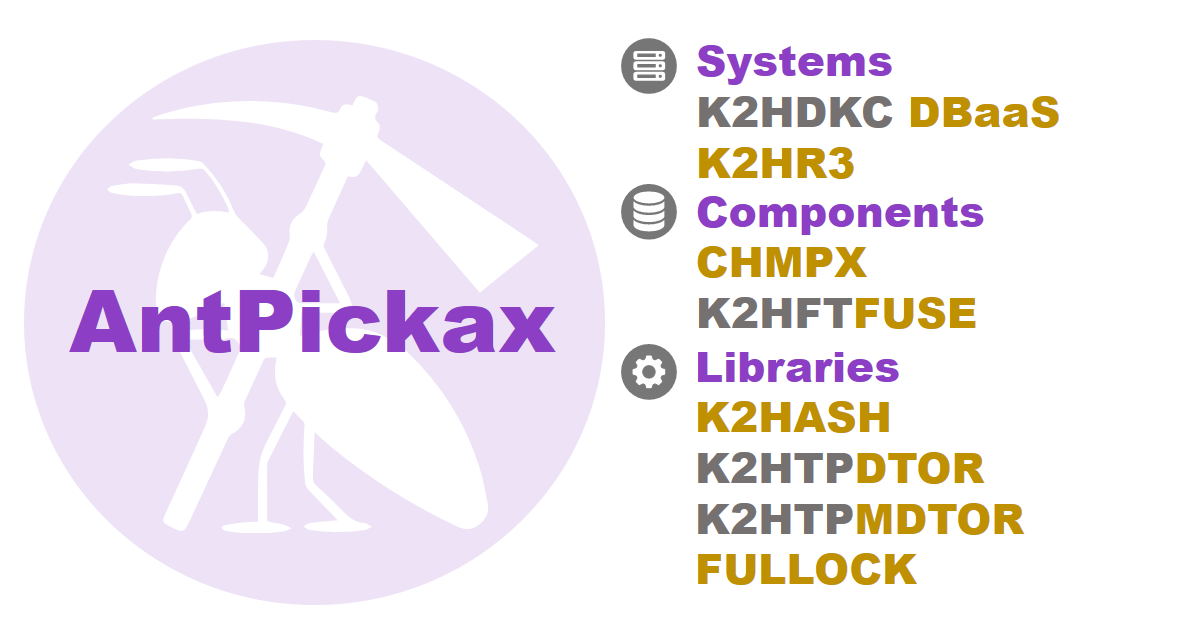
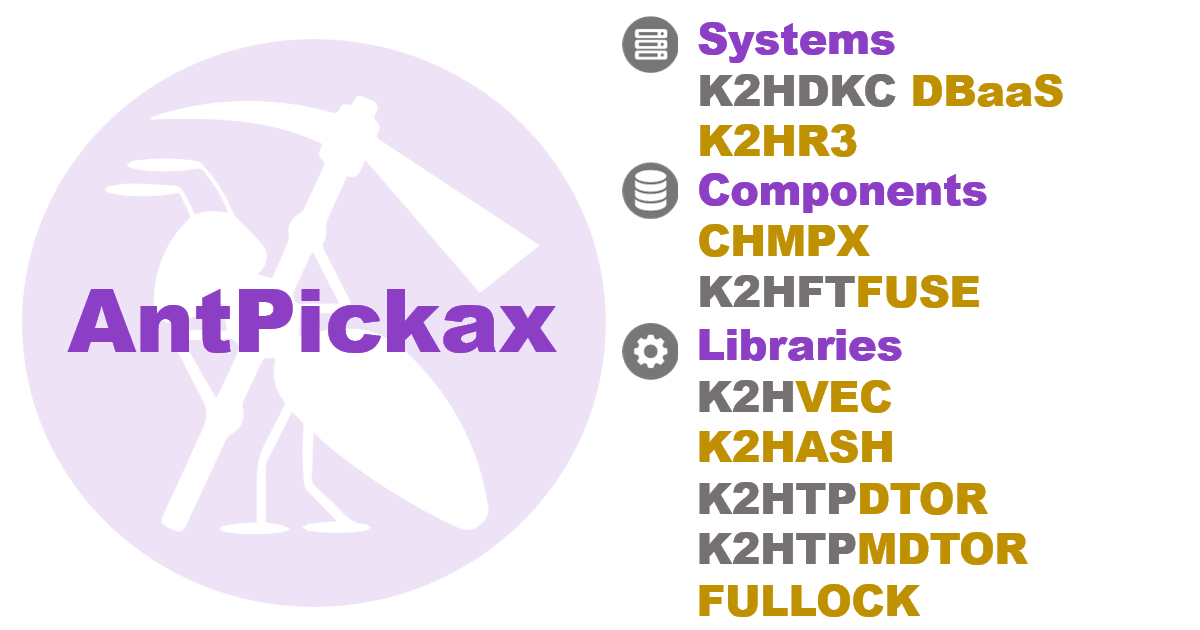
[gh-pages] Updated files for adding new product K2HVEC

diff --git a/index.md b/index.md
@@ -14,6 +14,7 @@ title_k2hdkc_java: <a class="to_antpickax_banner" href="https://java.k2hdkc.antp
 title_k2hdkc_go: <a class="to_antpickax_banner" href="https://pkg.go.dev/github.com/yahoojapan/k2hdkc_go/k2hdkc">K2HDKC golang</a>
 title_k2hdkc_python: <a class="to_antpickax_banner" href="https://k2hdkc-python.readthedocs.io/">K2HDKC python</a>
 title_k2hftfuse: <a class="to_antpickax_banner" href="https://k2hftfuse.antpick.ax/">K2HFTFUSE</a>
+title_k2hvec: <a class="to_antpickax_banner" href="https://k2hvec.antpick.ax/">K2HVEC</a>
 title_k2hash: <a class="to_antpickax_banner" href="https://k2hash.antpick.ax/">K2HASH</a>
 title_k2hash_nodejs: <a class="to_antpickax_banner" href="https://nodejs.k2hash.antpick.ax/">K2HASH nodejs addon</a>
 title_k2hash_java: <a class="to_antpickax_banner" href="https://java.k2hash.antpick.ax/">K2HASH java driver</a>
@@ -51,6 +52,9 @@ Among the created software, we have released software as an **AntPickax** produc
 ![AntPickax Products](images/top_antpickax.png)
 
 **AntPickax** publishes the following products as open source.
+
+### K2HVEC
+[**K2HVEC**](https://k2hvec.antpick.ax/) (**K2H**ash **Vec**tor database) is a high-performance, KVS-based **Vector database** built on top of the [K2HASH](https://k2hash.antpick.ax/) Key-Value Store library.
 
 ### **K2HDKC DBaaS**
 [**K2HDKC DBaaS**](https://dbaas.k2hdkc.antpick.ax/) (Database as a Service for K2HDKC) is a **Database as a Service** that uses [K2HR3](https://k2hr3.antpick.ax/) and works with [OpenStack](https://www.openstack.org/) and [kubernetes](https://kubernetes.io/) to build a [K2HDKC(K2Hash based Distributed Kvs Cluster)](https://k2hdkc.antpick.ax/index.html) Cluster for distributed KVS.
@@ -243,6 +247,18 @@ Using this library, both server side and slave side of communication program usi
 [**CHMPX phpext**](https://php.chmpx.antpick.ax/) provides all functions and features of [**CHMPX**](https://chmpx.antpick.ax/).  
 
 For details, please refer to {{ page.github_icon }}[**Codes on github**](https://github.com/yahoojapan/chmpx_phpext), {{ page.antpickax_icon }}[**Documents**](https://php.chmpx.antpick.ax/).
+
+## {{ page.title_k2hvec }}
+[**K2HVEC**](https://k2hvec.antpick.ax/) (**K2H**ash **Vec**tor database) is a high-performance, KVS-based **Vector database** built on top of the [K2HASH](https://k2hash.antpick.ax/) Key-Value Store library.  
+
+The [**K2HVEC**](https://k2hvec.antpick.ax/) has unique features shown below.
+- **Key-Value Flexibility**  
+K2HVEC stores and retains pairs of vector embeddings(used as keys) and their associated arbitrary user data(values).
+- **Fast Vector Search**  
+Performs high-speed and accurate vector similarity searches using specified input vector embeddings.
+- **Full Inheritance of K2HASH Features**  
+Inherits all native capabilities of the underlying [**K2HASH**](https://k2hash.antpick.ax/) engine.  
+You can directly apply [features](https://k2hash.antpick.ax/feature.html) such as **data encryption**, **expiration limits** (TTL), and **custom attributes** to the stored user data.
 
 ## {{ page.title_k2hash }}
 [**K2HASH**](https://k2hash.antpick.ax/) is a NoSQL Key Value Store(KVS) library.
